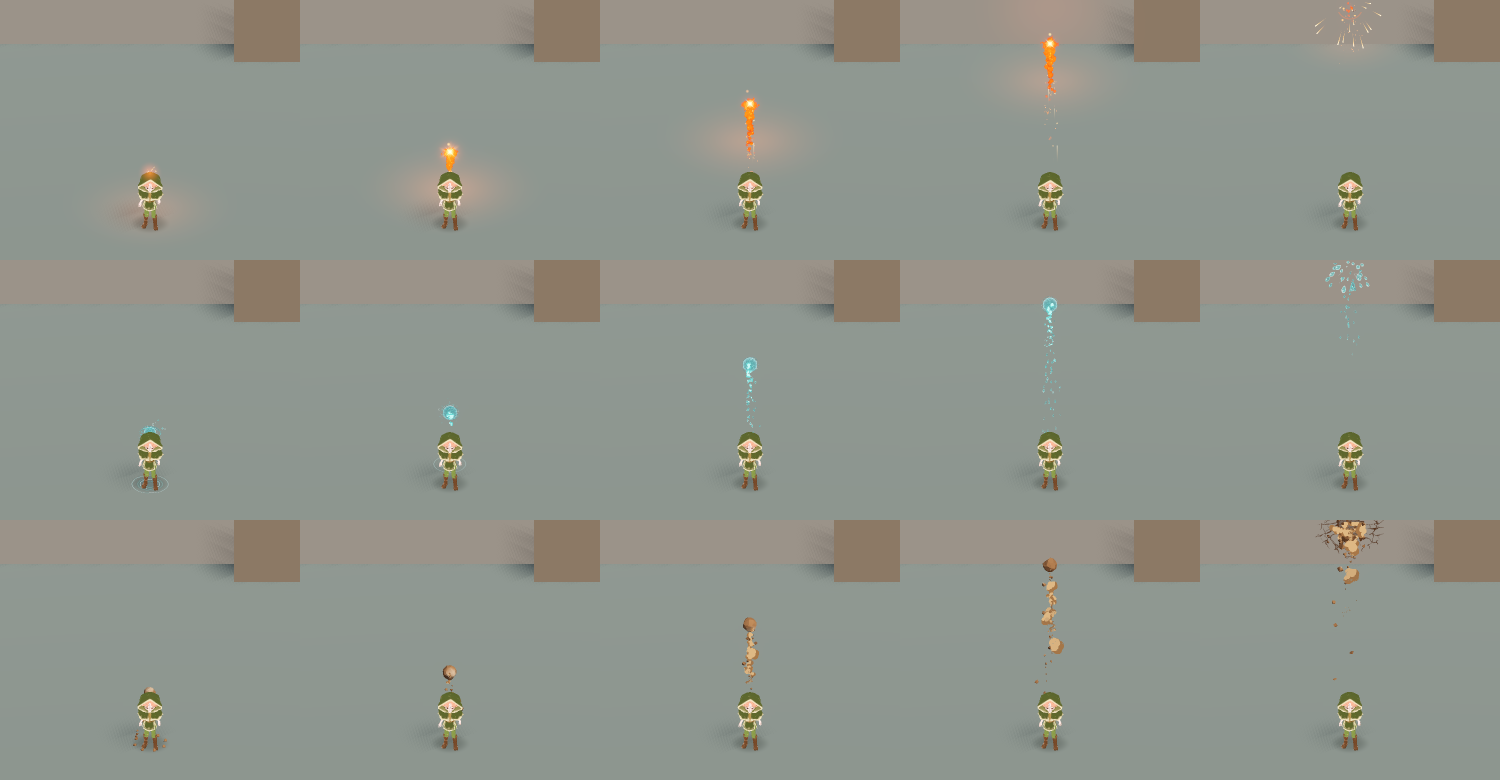
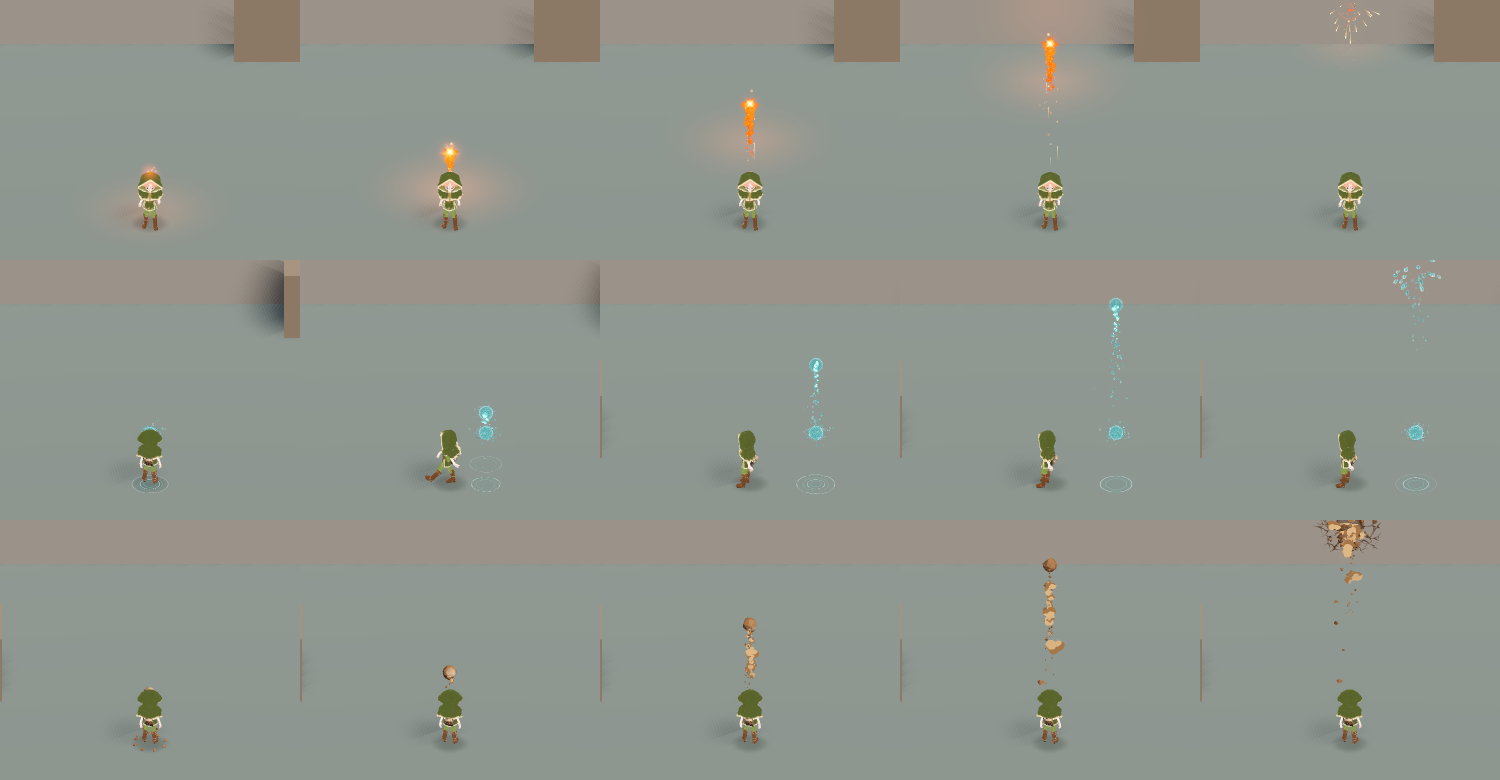
Bola de agua en vuelo: gota con cola, temblor y cintas tenues
Pablo: «flecha de tierra aprobada, afina agua». La bola parecía una canica
o un balón de playa que no se deforma. En vuelo: la mitad de atrás se afila
y alarga en cola de gota (uniform `gota` en las dos caras de la esfera), un
temblor leve de líquido y las cintas envolventes a opacidad 0,26. Quieta y
en la carga, la esfera de siempre.

diff --git a/docs/IMPACTOS_EFFEKSEER_2026-11-25.md b/docs/IMPACTOS_EFFEKSEER_2026-11-25.md
@@ -99,6 +99,8 @@ Cómo estaban nuestras bolas con la cámara del juego (`docs/capturas/estela_mun
 
 **Revisión de agua y tierra** (25/11, Pablo: «mira el resto, agua y piedra»): el agua dejaba nubes blancas de algodón (el agua en el aire no hace espuma) y la tierra una cadena de polvo tan gruesa como la roca, encima de los terrones que ya trae TierraToy. Ahora el agua deja un rocío de gotas que caen en arco con un vaho azulado pequeño junto a la bola, y la tierra un polvo fino y espaciado con más granitos (`agua_cerca_antes/despues.png`, `tierra_cerca_antes/despues.png`; arriba de lado, abajo con la cámara del juego; izquierda sin estela, derecha con ella).
 
+**Flecha de tierra aprobada; bola de agua afinada** (25/11, Pablo: «flecha de tierra aprobada, afina agua»). En vuelo la bola de agua se hace GOTA: cabeza redonda y la mitad de atrás afilada y alargada en cola (uniform `gota` de `agua_esfera` y `agua_esfera_atras`, que movía `AguaToy._forma_vuelo`), tiembla un poco como un líquido y las cintas que la envolvían («balón de playa») bajan a opacidad 0,26. Quieta y en la carga sigue siendo la esfera de siempre (`agua_gota_vuelo.png`).
+
 ## Cómo verlo
 
 `LabVfxComparativa3D` → **Ctrl+4** pone la comparativa (izquierda lo de ahora, derecha lo traducido, se repite solo) · **Ctrl+5** par siguiente (Mayús: anterior) · **Ctrl+6** vista juego / cerca / solo traducido · **Ctrl+7** cámara lenta ×0,25 · **Ctrl+4** sale.
